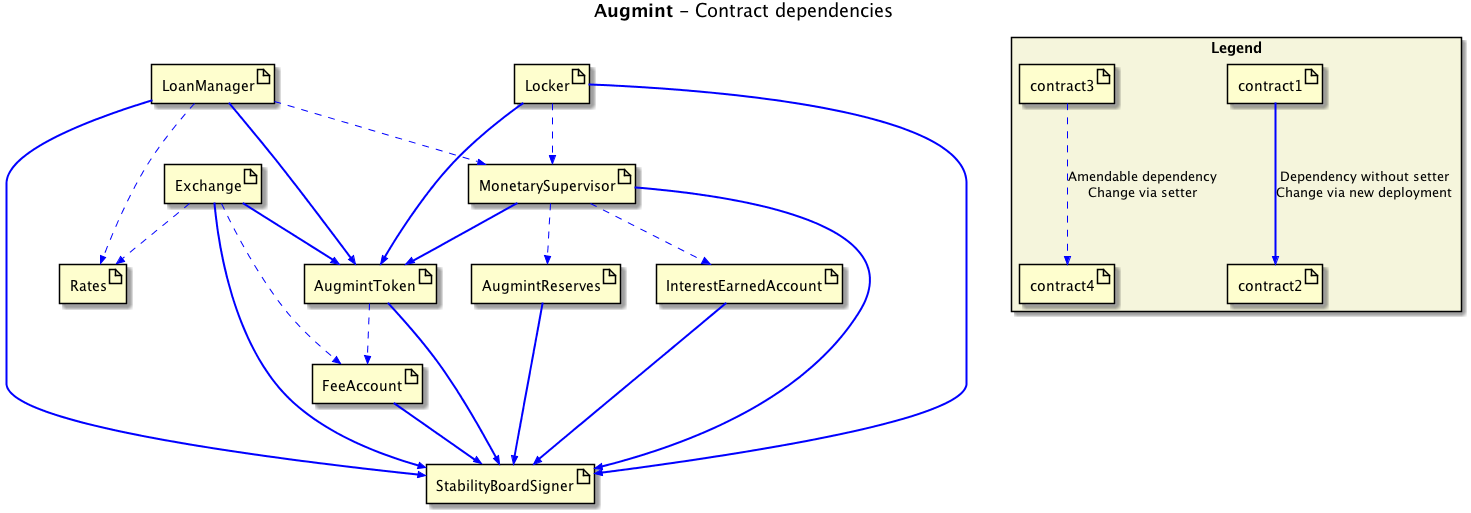
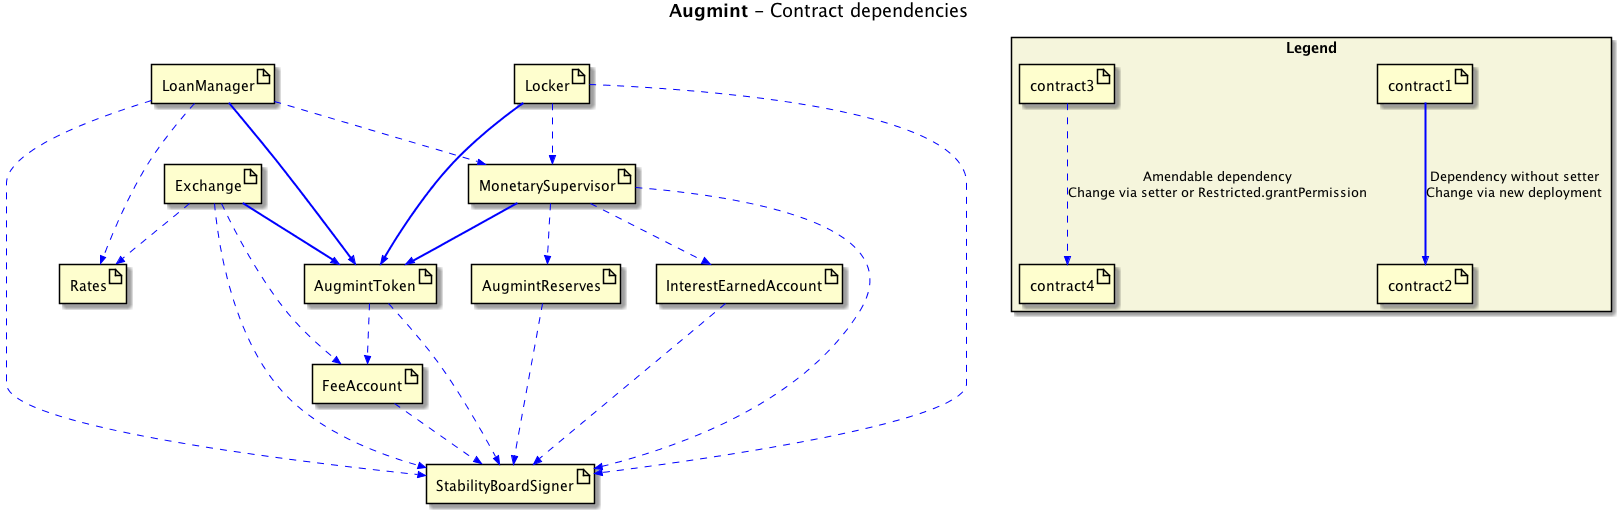
permission AugmintToken's StabilitySigner via Restricted

diff --git a/test/token.js b/test/token.js
@@ -20,7 +20,6 @@ contract("AugmintToken tests", accounts => {
                 "AEUR", // symbol
                 "EUR", // peggedSymbol
                 2, // decimals
-                StabilityBoardSigner.address,
                 0 // feeaccount
             )
         );
@@ -33,7 +32,6 @@ contract("AugmintToken tests", accounts => {
                 "AEUR", // symbol
                 "EUR", // peggedSymbol
                 2, // decimals
-                StabilityBoardSigner.address,
                 tokenTestHelpers.feeAccount.address
             )
         );
@@ -46,7 +44,6 @@ contract("AugmintToken tests", accounts => {
                 "", // symbol
                 "EUR", // peggedSymbol
                 2, // decimals,
-                StabilityBoardSigner.address,
                 tokenTestHelpers.feeAccount.address
             )
         );
@@ -73,6 +70,6 @@ contract("AugmintToken tests", accounts => {
 
     it("should not call setFeeAccount directly", async function() {
         const newFeeAccount = accounts[2];
-        await testHelpers.expectThrow(augmintToken.setFeeAccount(newFeeAccount, { from: accounts[0] }));
+        await testHelpers.expectThrow(augmintToken.setFeeAccount(newFeeAccount, { from: accounts[1] }));
     });
 });

diff --git a/migrations/1002_add_legacyContracts.js b/migrations/1002_add_legacyContracts.js
@@ -7,14 +7,13 @@ const MonetarySupervisor = artifacts.require("./MonetarySupervisor.sol");
 const Locker = artifacts.require("./Locker.sol");
 const LoanManager = artifacts.require("./LoanManager.sol");
 const Exchange = artifacts.require("./Exchange.sol");
-const StabilityBoardSigner = artifacts.require("./StabilityBoardSigner.sol");
 
 module.exports = async function(deployer, network, accounts) {
     deployer.then(async () => {
         const monetarySupervisor = MonetarySupervisor.at(MonetarySupervisor.address);
         const feeAccount = FeeAccount.at(FeeAccount.address);
 
-        const oldToken = await TokenAEur.new(StabilityBoardSigner.address, FeeAccount.address);
+        const oldToken = await TokenAEur.new(FeeAccount.address);
 
         const [oldLocker, oldLoanManager, oldExchange] = await Promise.all([
             Locker.new(oldToken.address, MonetarySupervisor.address),

diff --git a/test/tokenConversion.js b/test/tokenConversion.js
@@ -2,7 +2,6 @@ const tokenTestHelpers = require("./helpers/tokenTestHelpers.js");
 const testHelpers = require("./helpers/testHelpers.js");
 const MonetarySupervisor = artifacts.require("./MonetarySupervisor.sol");
 const AugmintToken = artifacts.require("./TokenAEur.sol");
-const StabilityBoardSigner = artifacts.require("./StabilityBoardSigner.sol");
 
 let augmintToken = null;
 let monetarySupervisor = null;
@@ -15,7 +14,7 @@ contract("token conversion tests", accounts => {
         monetarySupervisor = tokenTestHelpers.monetarySupervisor;
 
         [newToken] = await Promise.all([
-            AugmintToken.new(StabilityBoardSigner.address, tokenTestHelpers.feeAccount.address),
+            AugmintToken.new(tokenTestHelpers.feeAccount.address),
             tokenTestHelpers.issueToReserve(10000000)
         ]);
 

diff --git a/migrations/7_deploy_TokenAEur.js b/migrations/7_deploy_TokenAEur.js
@@ -1,7 +1,6 @@
 const TokenAEur = artifacts.require("./TokenAEur.sol");
-const StabilityBoardSigner = artifacts.require("./StabilityBoardSigner.sol");
 const FeeAccount = artifacts.require("./FeeAccount.sol");
 
 module.exports = function(deployer) {
-    deployer.deploy(TokenAEur, StabilityBoardSigner.address, FeeAccount.address);
+    deployer.deploy(TokenAEur, FeeAccount.address);
 };
